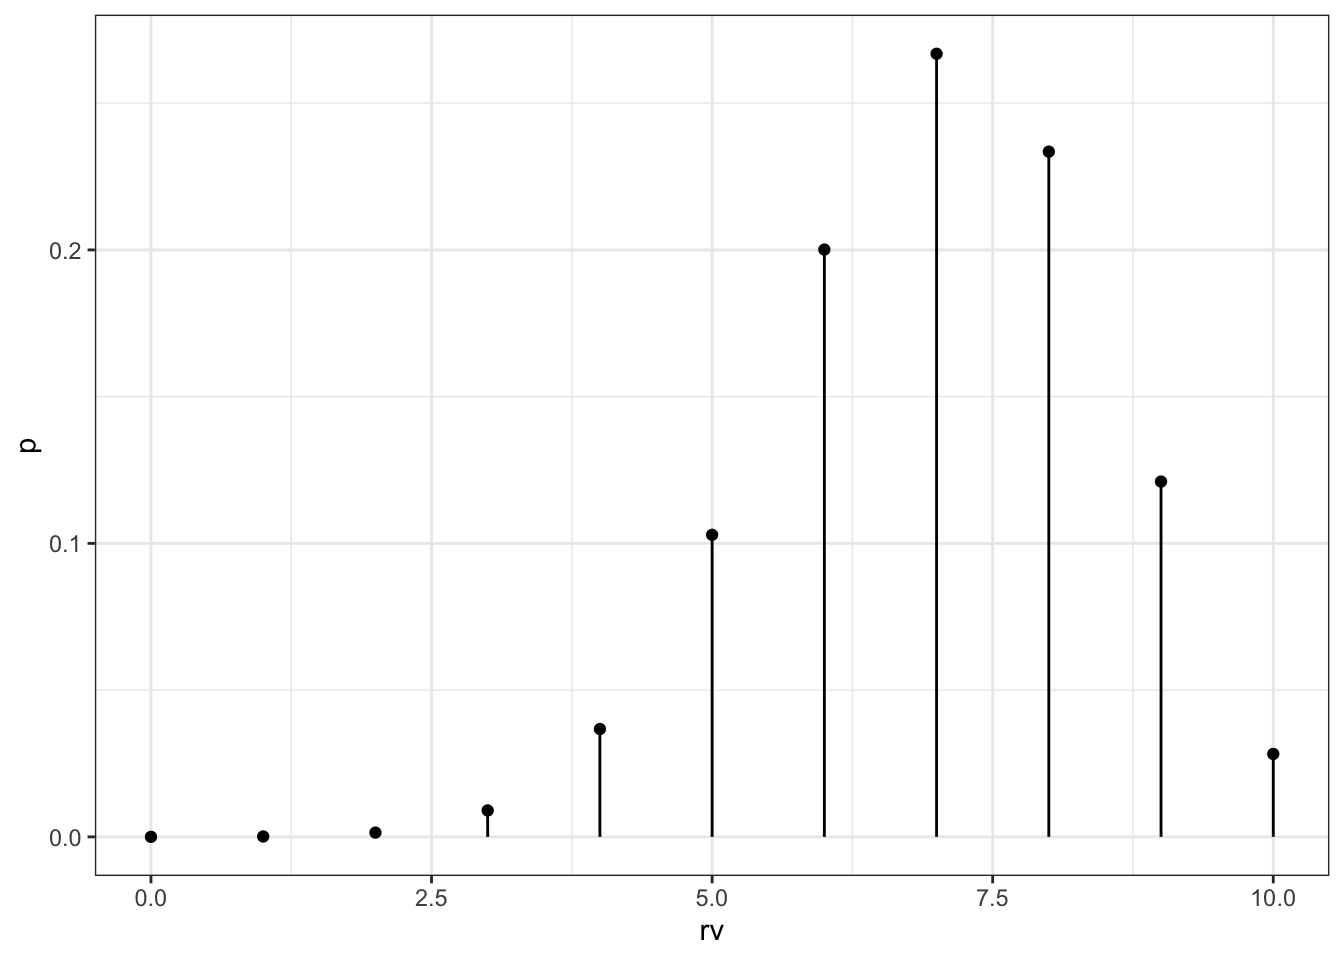
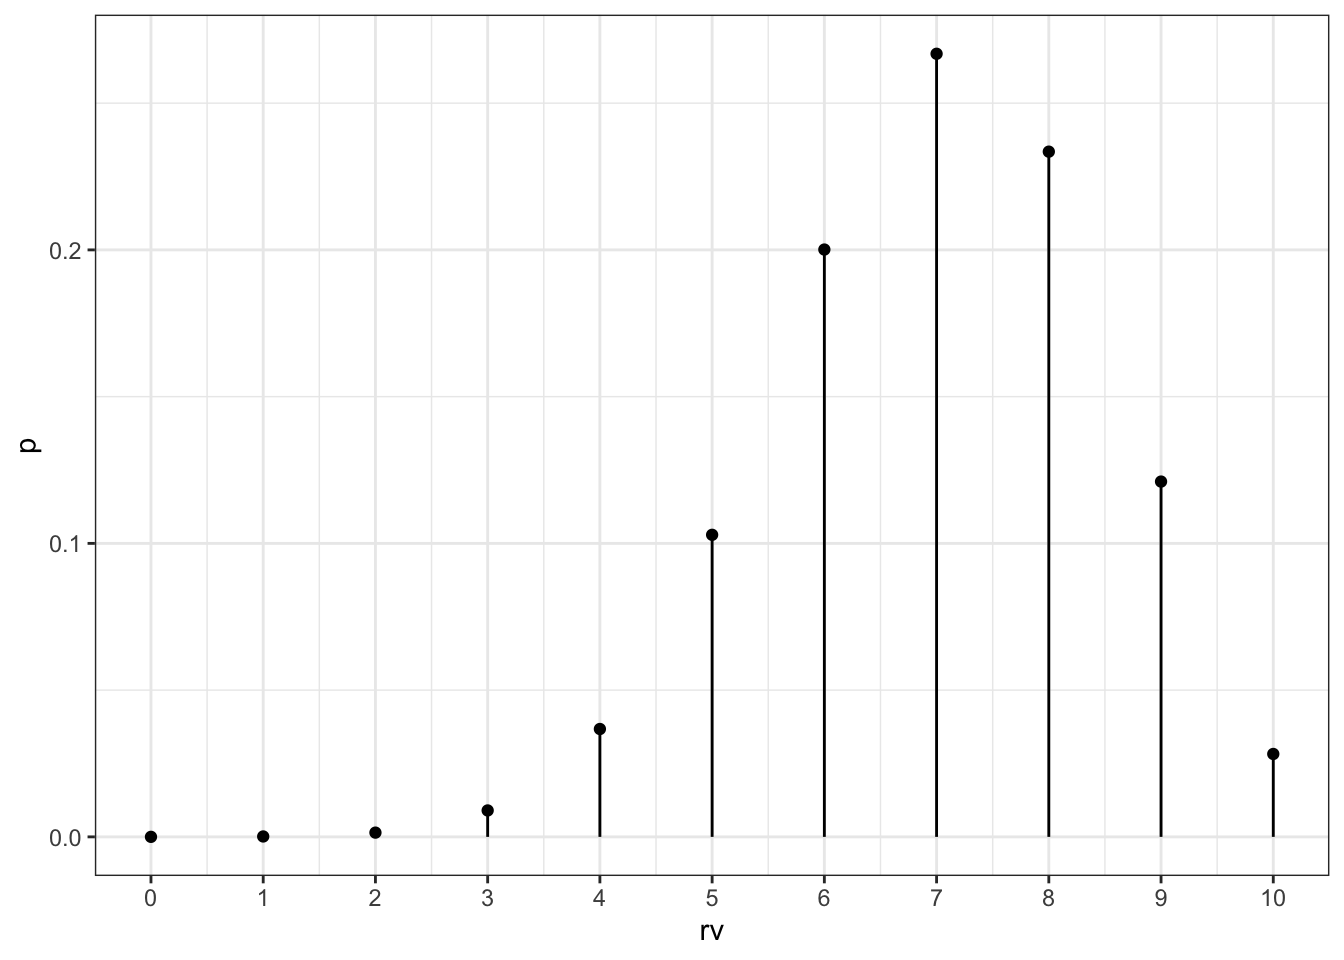
Fix probability distribution x-axis

diff --git a/miscellanea.html b/miscellanea.html
@@ -294,7 +294,7 @@ code span.wa { color: #60a0b0; font-weight: bold; font-style: italic; } /* Warni
 <div class="sourceCode cell-code" id="cb32"><pre class="sourceCode r code-with-copy"><code class="sourceCode r"><span id="cb32-1"><a href="#cb32-1" aria-hidden="true" tabindex="-1"></a><span class="co"># random variable = function that maps each outcome in the sample space to a real number</span></span>
 <span id="cb32-2"><a href="#cb32-2" aria-hidden="true" tabindex="-1"></a>random.variable <span class="ot">&lt;-</span> <span class="cf">function</span>(outcome) { <span class="fu">str_count</span>(outcome, <span class="at">pattern =</span> <span class="st">"H"</span>) }</span>
 <span id="cb32-3"><a href="#cb32-3" aria-hidden="true" tabindex="-1"></a></span>
-<span id="cb32-4"><a href="#cb32-4" aria-hidden="true" tabindex="-1"></a><span class="co"># probability distribution = table of probabilities of events (i.e., set of outcomes) corresponding to each possible value returned by the random variable when applied to each outcome in the sample space</span></span>
+<span id="cb32-4"><a href="#cb32-4" aria-hidden="true" tabindex="-1"></a><span class="co"># probability distribution = table of probabilities of events (i.e., set of outcomes) corresponding to each possible value of the random variable</span></span>
 <span id="cb32-5"><a href="#cb32-5" aria-hidden="true" tabindex="-1"></a>probability.distribution <span class="ot">=</span> probability.table <span class="sc">%&gt;%</span> <span class="fu">mutate</span>(<span class="at">rv =</span> <span class="fu">random.variable</span>(outcome))</span>
 <span id="cb32-6"><a href="#cb32-6" aria-hidden="true" tabindex="-1"></a></span>
 <span id="cb32-7"><a href="#cb32-7" aria-hidden="true" tabindex="-1"></a>probability.distribution</span></code><button title="Copy to Clipboard" class="code-copy-button"><i class="bi"></i></button></pre></div>
@@ -317,7 +317,7 @@ code span.wa { color: #60a0b0; font-weight: bold; font-style: italic; } /* Warni
   </script>
 </div>
 </div>
-<div class="sourceCode cell-code" id="cb34"><pre class="sourceCode r code-with-copy"><code class="sourceCode r"><span id="cb34-1"><a href="#cb34-1" aria-hidden="true" tabindex="-1"></a>probability.distribution <span class="sc">%&gt;%</span> <span class="fu">ggplot</span>(<span class="fu">aes</span>(<span class="at">x=</span>rv, <span class="at">xend=</span>rv, <span class="at">y=</span>p, <span class="at">yend=</span><span class="dv">0</span>)) <span class="sc">+</span> <span class="fu">geom_point</span>() <span class="sc">+</span> <span class="fu">geom_segment</span>()</span></code><button title="Copy to Clipboard" class="code-copy-button"><i class="bi"></i></button></pre></div>
+<div class="sourceCode cell-code" id="cb34"><pre class="sourceCode r code-with-copy"><code class="sourceCode r"><span id="cb34-1"><a href="#cb34-1" aria-hidden="true" tabindex="-1"></a>probability.distribution <span class="sc">%&gt;%</span> <span class="fu">ggplot</span>(<span class="fu">aes</span>(<span class="at">x=</span>rv, <span class="at">xend=</span>rv, <span class="at">y=</span>p, <span class="at">yend=</span><span class="dv">0</span>)) <span class="sc">+</span> <span class="fu">geom_point</span>() <span class="sc">+</span> <span class="fu">geom_segment</span>() <span class="sc">+</span> <span class="fu">scale_x_continuous</span>(<span class="at">breaks=</span><span class="dv">0</span><span class="sc">:</span>n_tosses)</span></code><button title="Copy to Clipboard" class="code-copy-button"><i class="bi"></i></button></pre></div>
 <div class="cell-output-display">
 <p><img src="miscellanea_files/figure-html/unnamed-chunk-12-1.png" class="img-fluid" width="672"></p>
 </div>
